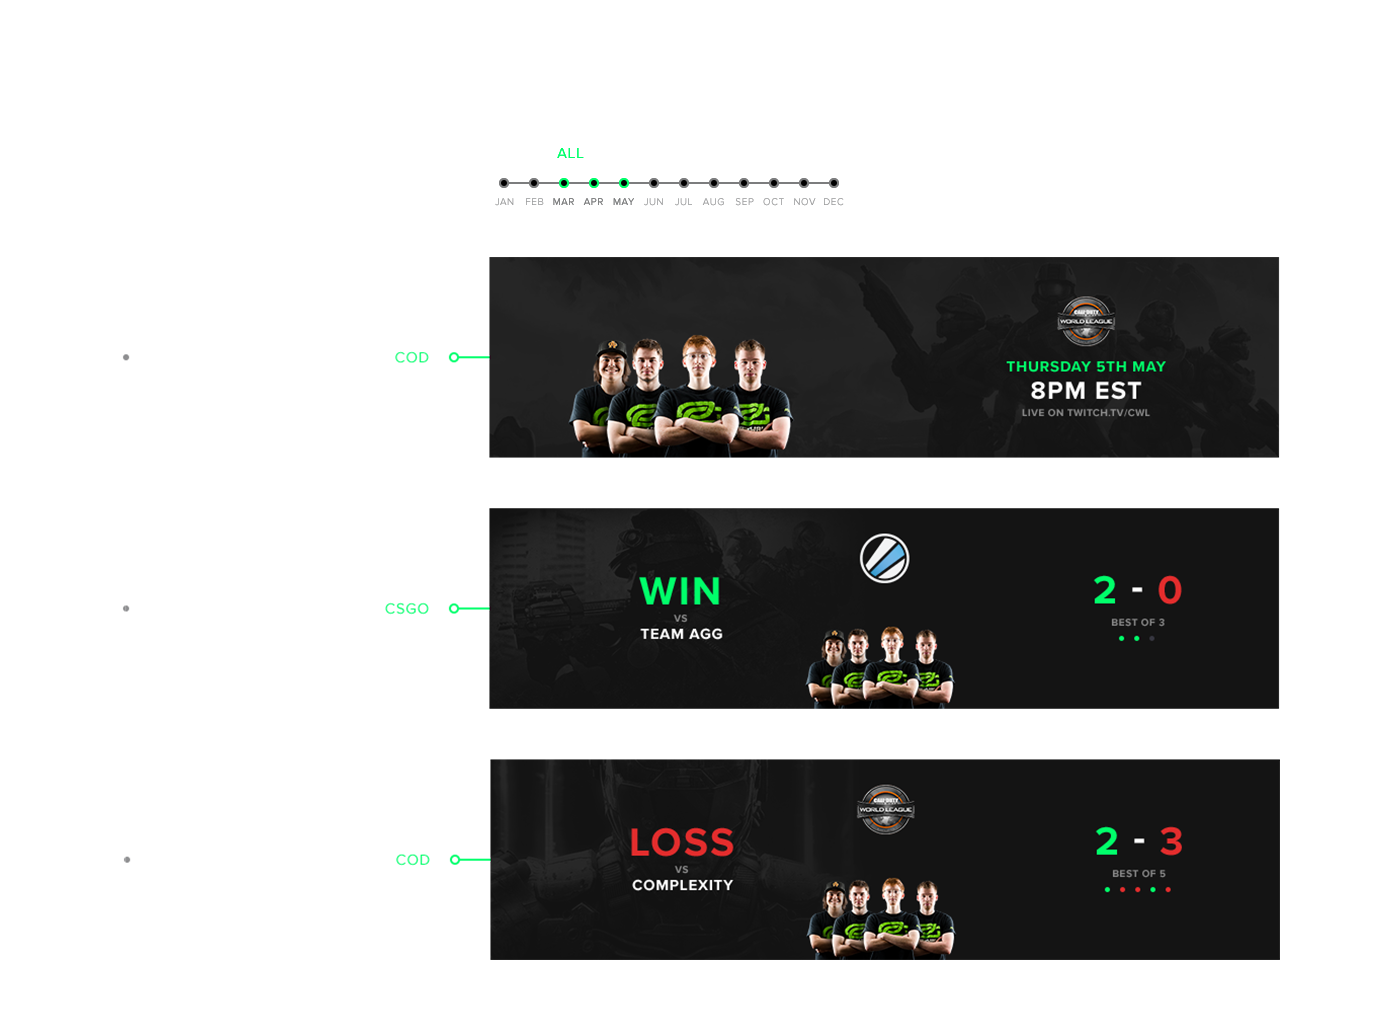
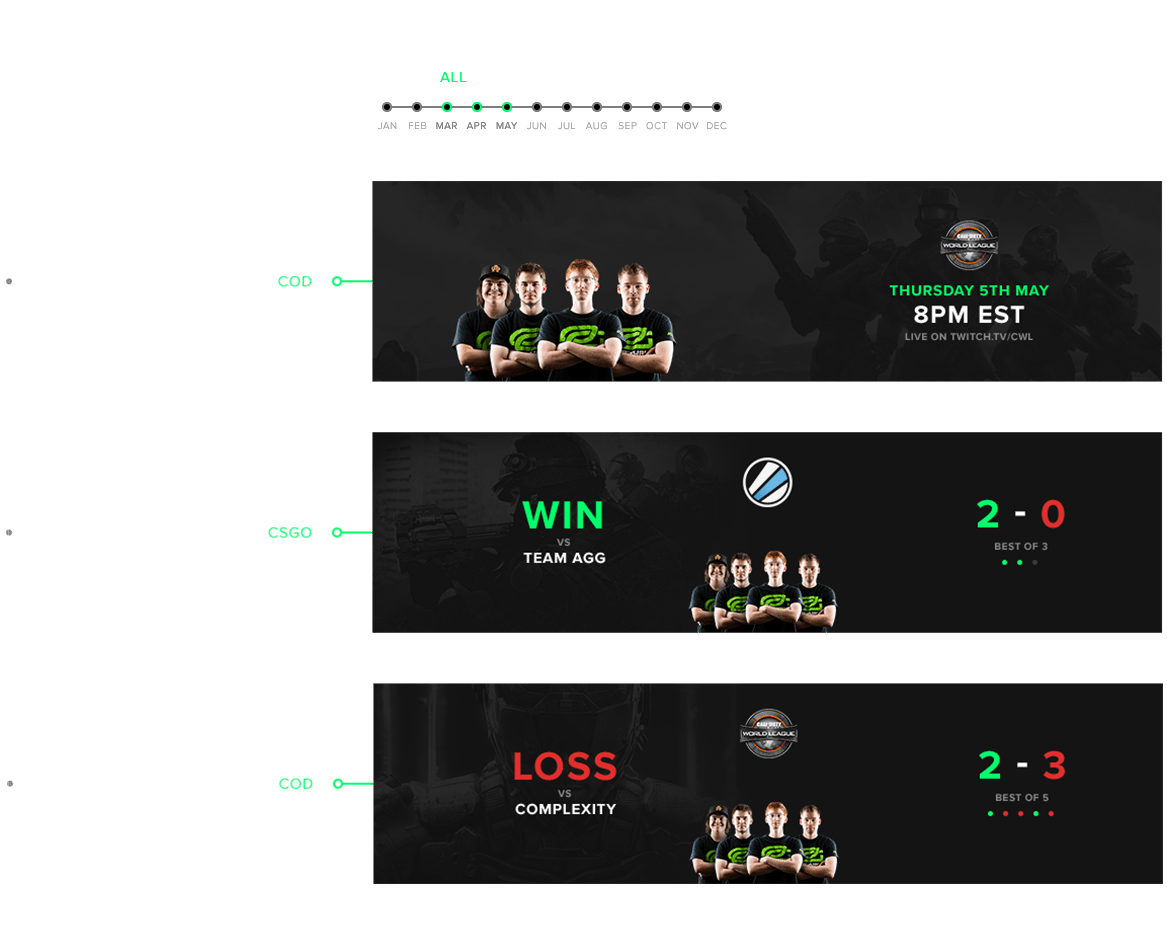
project optimizations

Changed region(s): [[0.2159, 0.0922, 1.0, 0.9523], [0.4319, 0.7987, 0.5244, 0.8909]]

diff --git a/_sass/pages/_project.scss b/_sass/pages/_project.scss
@@ -54,7 +54,7 @@
 	z-index: 100;
 	background-color: transparent !important;
 	h1,h2,h3,h4,h5,h6,p,ul,ol,blockquote,figcaption{
-		max-width: 1280px;
+		max-width: 1152px;
 		padding: 0 $space-big;
 		margin-bottom: $space;
 	}

diff --git a/_sass/_framework/_typography.scss b/_sass/_framework/_typography.scss
@@ -93,6 +93,11 @@ span.highlight,a{color: $text-colour-highlight}
 		border-radius: .6rem;
 		overflow: hidden
 	}
+	img{
+		width: auto;
+		margin-top: $space-big;
+		margin-bottom: $space-big;
+	}
 }
 
 
